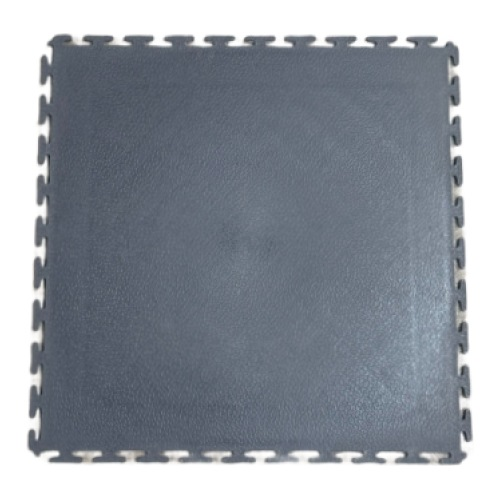
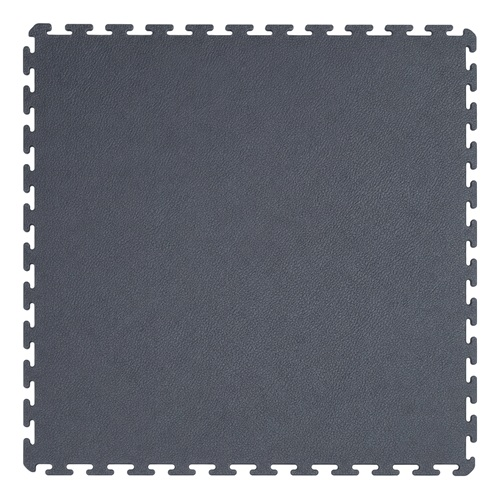
preview: enderezar y limpiar fotos rejilla y trama

diff --git a/calculadora-baldosas/sw.js b/calculadora-baldosas/sw.js
@@ -1,4 +1,4 @@
-const CACHE = 'nexa-v92-pdf-one-page';
+const CACHE = 'nexa-v93-tiles-straight';
 const ASSETS = [
   './',
   './index.html',
